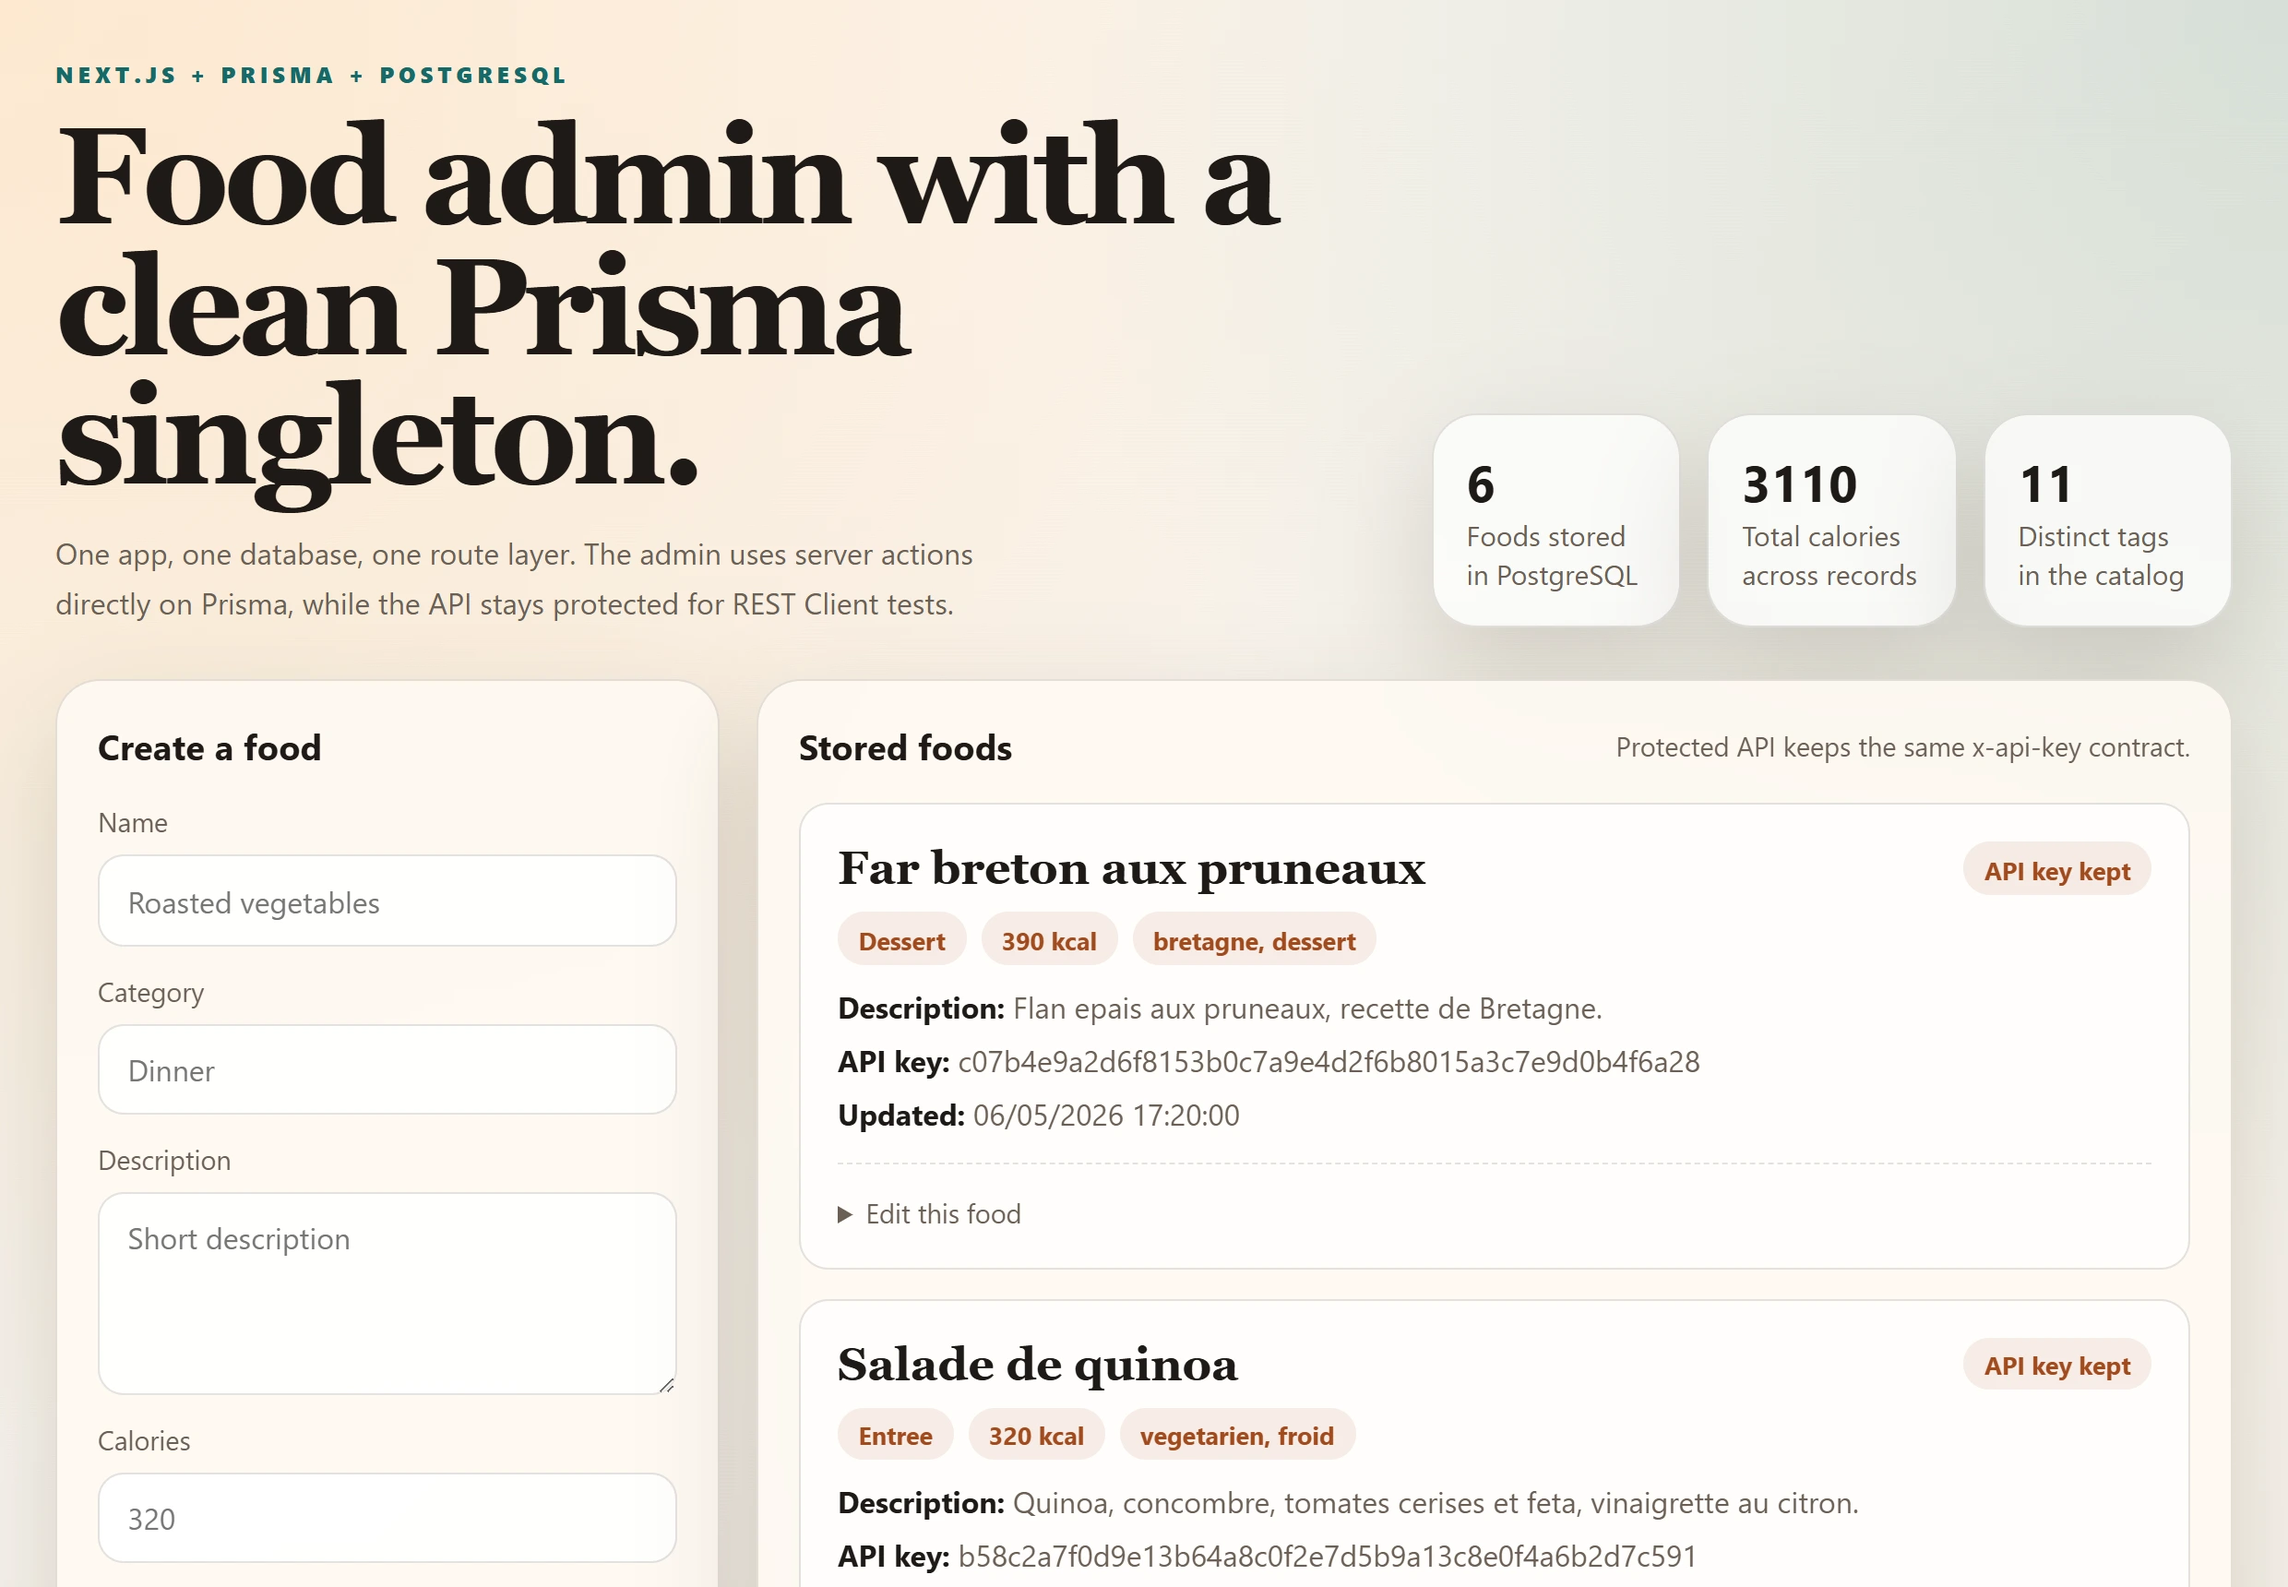
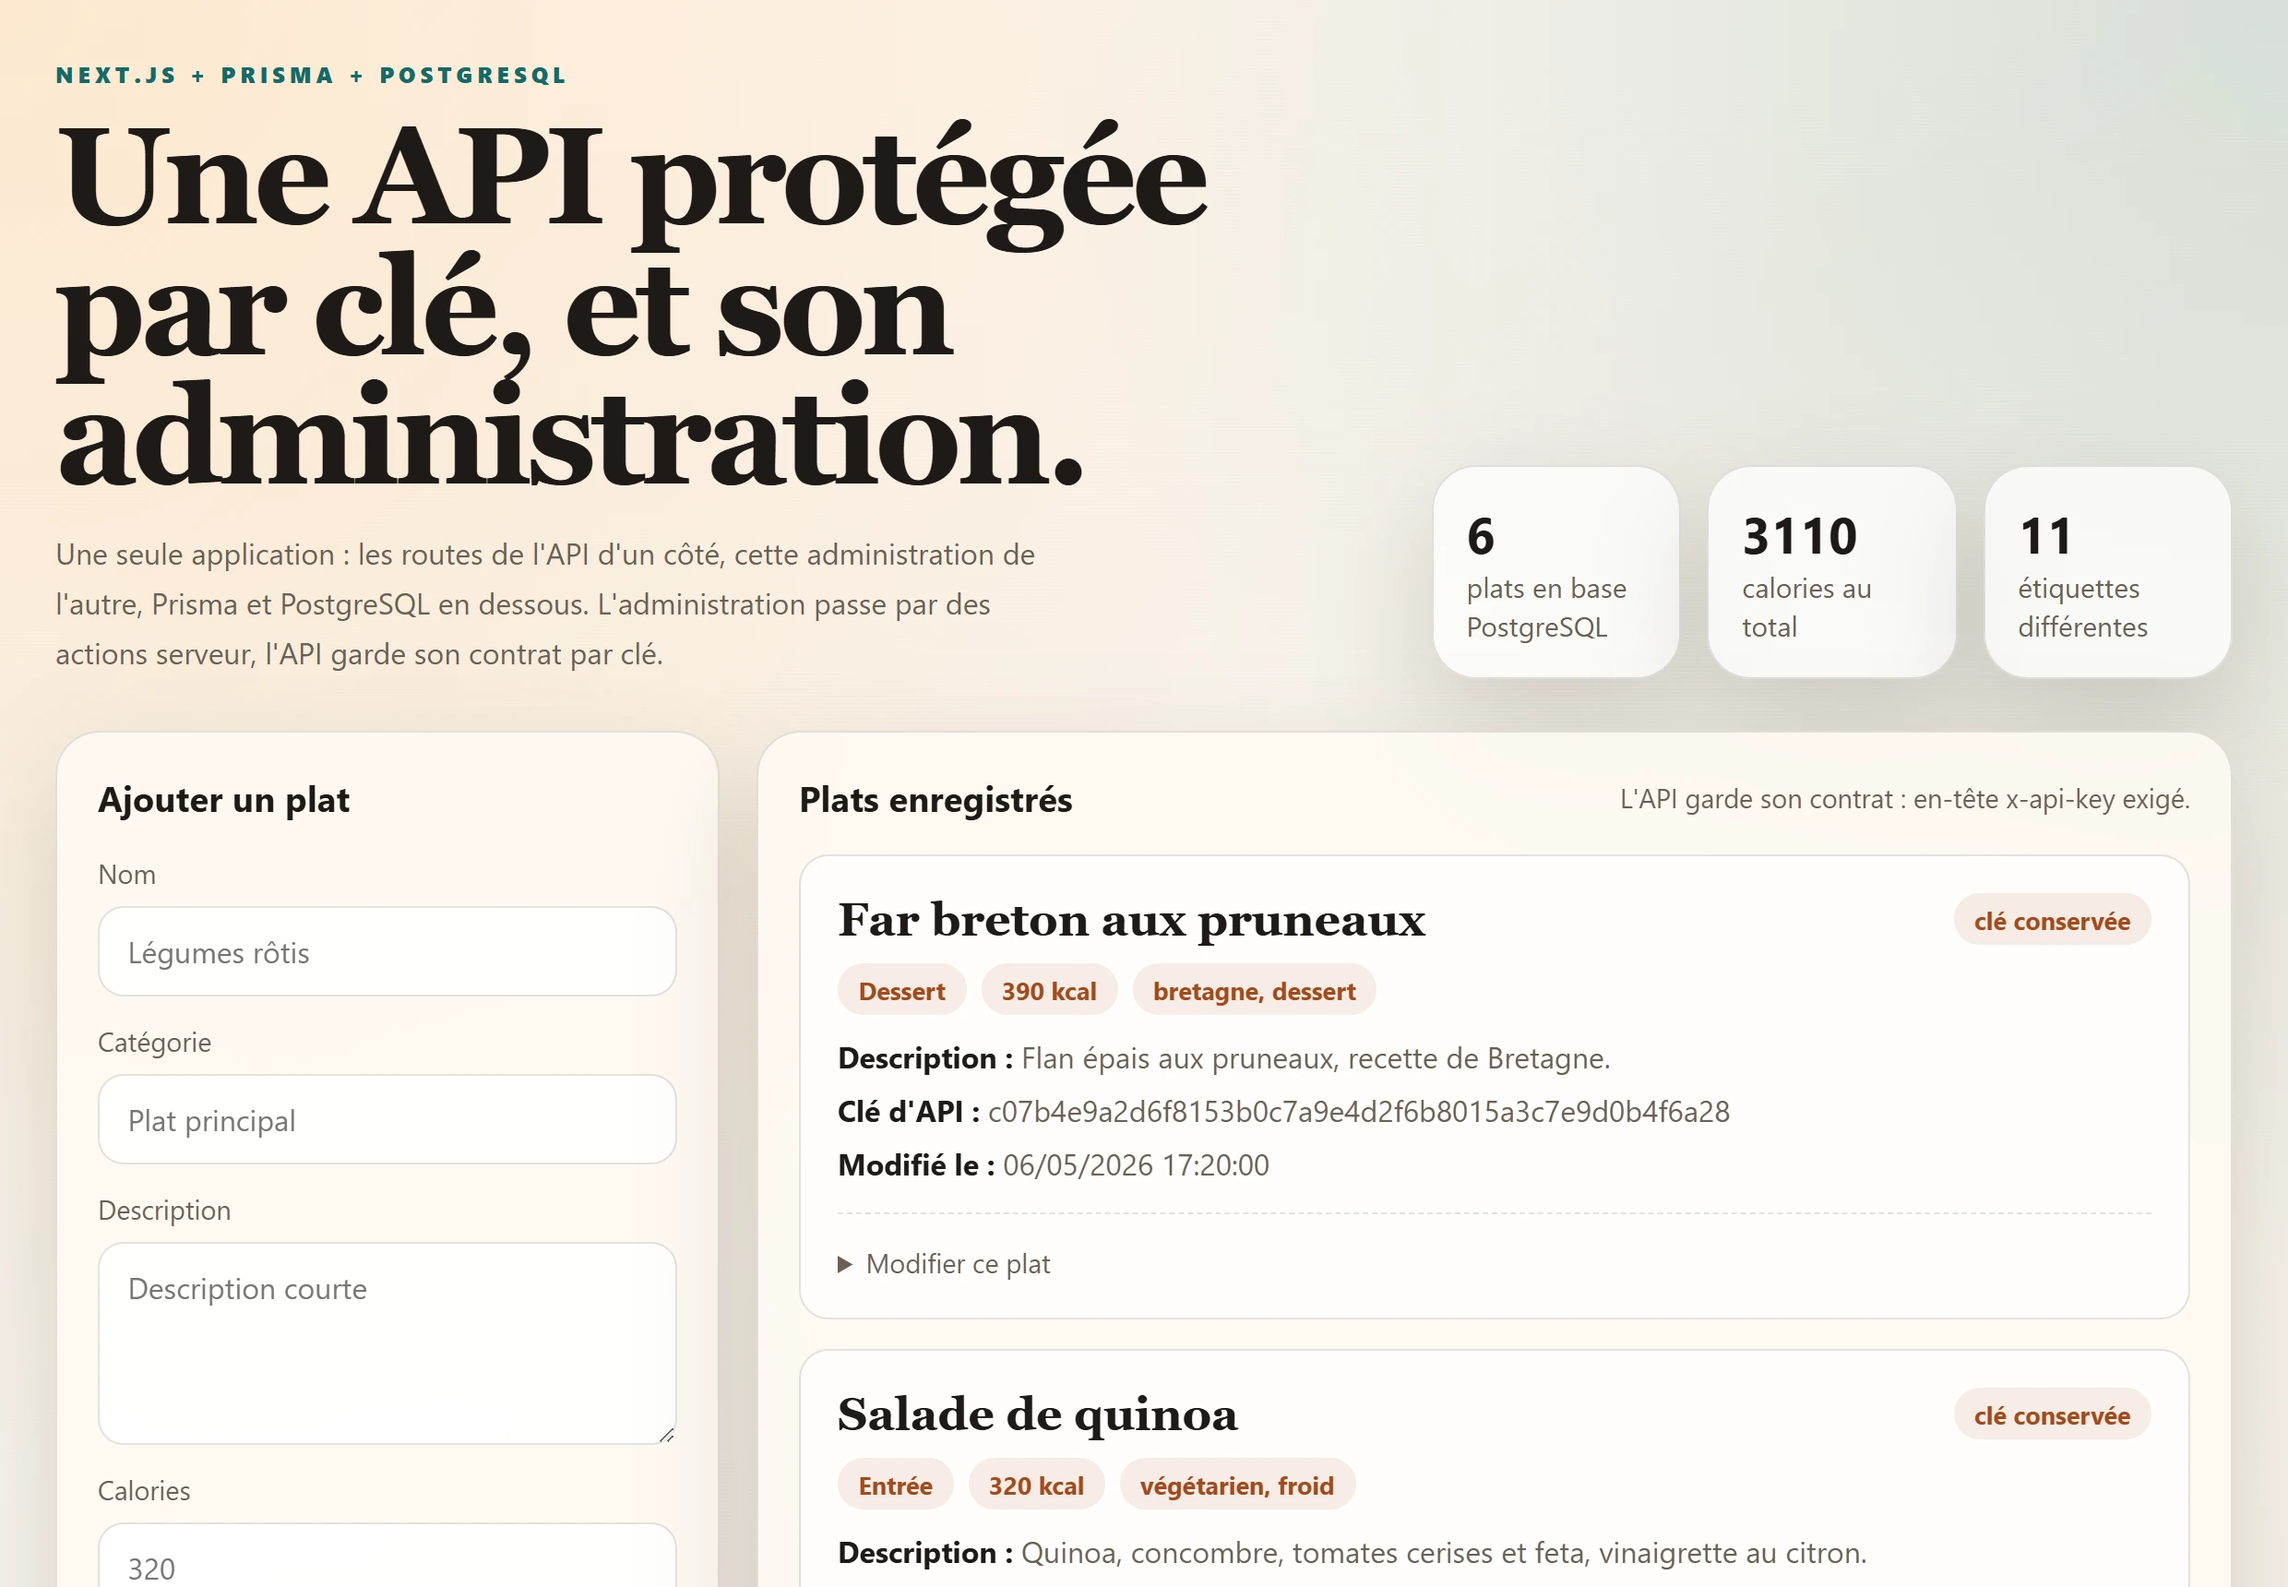
Le CV en ligne ne porte plus le numéro de téléphone
Un CV posé sur Internet est aspiré par les robots. La version publiée
garde les adresses, LinkedIn, GitHub et le QR code ; celle qui part à un
recruteur garde le numéro. Le générateur produit les deux.

Les fiches suivent les projets étudiés : l'application de la chaîne sait
maintenant cocher, filtrer et supprimer, et l'administration de l'API
est en français.

diff --git a/src/projets/chaine-cicd-conteneurs/fiche.ts b/src/projets/chaine-cicd-conteneurs/fiche.ts
@@ -8,9 +8,9 @@ const fiche: Projet = {
   slug: "chaine-cicd-conteneurs",
   ordre: 30,
   titre: "Chaîne CI/CD multi-conteneurs",
-  accroche: "Quatre étages qui vérifient vraiment : tests du front, tests .NET contre MySQL, pile montée en conteneurs, charge k6 et parcours Chrome.",
+  accroche: "Quatre étages qui vérifient vraiment : 22 tests, pile montée en conteneurs, charge k6 avec seuils et parcours d'un visiteur rejoué dans Chrome.",
   resume:
-    "Une chaîne GitHub Actions en quatre étages, et l'application qu'elle vérifie : un front statique servi par nginx, une API .NET 10 et une base MySQL. L'application reste volontairement petite, car le sujet du projet est la chaîne. Chaque étage ne part que si le précédent est vert, l'intégration monte la pile entière par docker compose, et les images ne sont publiées que depuis main, étiquetées par le hash du commit.",
+    "Une chaîne GitHub Actions en quatre étages, et l'application qu'elle vérifie : un suivi de tâches complet, front statique servi par nginx, API .NET 10 et base MySQL. On y crée, coche, filtre et supprime, et les compteurs sont calculés par la base. Chaque étage de la chaîne ne part que si le précédent est vert, l'intégration monte la pile entière par docker compose, et les images ne sont publiées que depuis main, étiquetées par le hash du commit. La pile se lance en une commande sur n'importe quel poste : node demarrer.mjs.",
   categorie: "devops",
   statut: "termine",
   annee: "2026",
@@ -28,12 +28,12 @@ const fiche: Projet = {
   stack: ["githubactions", "docker", "dotnet", "mysql", "nginx", "k6", "puppeteer", "node"],
   chiffres: [
     { valeur: 4, libelle: "étages, chacun conditionné au précédent" },
-    { valeur: 3, libelle: "conteneurs montés à chaque intégration" },
+    { valeur: 22, libelle: "tests : 16 contre une vraie base, 6 sur les règles du front" },
     { valeur: 10, libelle: "utilisateurs simultanés sous k6" },
-    { valeur: 2, libelle: "images publiées par commit" },
+    { valeur: 1, libelle: "commande pour monter la pile entière" },
   ],
   probleme:
-    "Une chaîne d'intégration peut passer au vert sans rien vérifier : un test qui affiche « rien à lancer » a la même couleur qu'un test qui protège. C'était le cas ici, et c'est le piège que ce projet corrige.",
+    "Une chaîne d'intégration peut passer au vert sans rien vérifier : un test qui affiche « rien à lancer » a la même couleur qu'un test qui protège. Le squelette de départ était dans ce cas, et tout le travail a consisté à donner à chaque étage quelque chose de réel à vérifier.",
   solution:
     "Donner à chaque étage un travail réel : des règles testées côté front, des tests d'API contre une vraie base MySQL, la pile entière montée en conteneurs puis mise sous charge avec des seuils, et le parcours d'un visiteur rejoué dans un vrai Chrome.",
   sections: [
@@ -48,11 +48,23 @@ const fiche: Projet = {
       ],
     },
     {
+      titre: "L'application, assez complète pour être vérifiable",
+      texte: "Une liste où tout reste à faire ne prouve rien : il faut des écritures, des lectures filtrées et des suppressions.",
+      points: [
+        "Créer, cocher, décocher, supprimer une tâche",
+        "Filtrer entre « toutes », « à faire » et « faites », depuis l'adresse de l'API",
+        "Compteurs calculés par la base, pas par la page : trois nombres ne demandent pas de tout télécharger",
+        "PATCH ne change que ce qui est envoyé : cocher une tâche n'oblige pas à renvoyer son titre",
+        "Un filtre inconnu montre tout, plutôt que de répondre par une erreur",
+      ],
+    },
+    {
       titre: "Ce que la chaîne refuse de laisser passer",
       texte: "Les seuils font échouer la chaîne d'eux-mêmes : sans seuil, un test de charge affiche des chiffres que personne ne lit.",
       points: [
         "Moins de 1 % de requêtes en échec, et 95 % des réponses sous 500 ms",
         "Un titre vide refusé par le serveur, formulaire contourné : le test l'appelle directement en HTTP",
+        "Le parcours complet d'un visiteur dans Chrome : créer, cocher, voir la tâche quitter le filtre « À faire », la supprimer",
         "Une sonde de santé qui interroge vraiment la base, par un SELECT 1",
         "Jamais d'étiquette latest : le hash du commit nomme exactement l'image qui tourne",
       ],
@@ -69,7 +81,7 @@ const fiche: Projet = {
   lecons: [
     {
       titre: "Un test vide est pire qu'aucun test",
-      texte: "Il donne la couleur verte de la confiance sans le travail de la vérification. Les quatre étages passaient au vert sur des scripts qui affichaient « placeholder: nothing to run ».",
+      texte: "Il donne la couleur verte de la confiance sans le travail de la vérification. Les scripts du squelette de départ affichaient « placeholder: nothing to run » : la chaîne était verte, et ne protégeait rien.",
     },
     {
       titre: "Un seuil transforme une mesure en garde-fou",
@@ -78,6 +90,10 @@ const fiche: Projet = {
     {
       titre: "Attendre une base, ce n'est pas attendre son port",
       texte: "MySQL répond sur son socket local bien avant d'accepter le réseau. La sonde interroge donc 127.0.0.1, sans quoi la migration part trop tôt.",
+    },
+    {
+      titre: "Une règle de style trop large déforme un composant",
+      texte: "La règle des champs de saisie s'appliquait aussi aux cases à cocher, étirées sur 220 pixels. Le parcours navigateur l'a rendue visible avant un visiteur.",
     },
   ],
   pipeline: [
@@ -93,7 +109,7 @@ const fiche: Projet = {
     {
       genre: "verification",
       titre: "Intégration",
-      taches: [{ nom: "Pile complète", controles: ["docker compose up --wait", "Schéma appliqué", "k6 : 10 utilisateurs, seuils", "Chrome : parcours complet"] }],
+      taches: [{ nom: "Pile complète", controles: ["docker compose up --wait", "Schéma appliqué", "k6 : création, coche, filtre, compteurs, suppression", "Chrome : le parcours entier d'un visiteur"] }],
     },
     { genre: "publication", titre: "Images", taches: [{ nom: "Matrice", controles: ["frontend + backend", "GHCR, depuis main", "Étiquette = hash du commit"] }] },
   ],
@@ -153,6 +169,7 @@ if (refus !== 400) throw new Error(\`Le serveur a répondu \${refus} au lieu de 
           ghcr.io/\${{ github.repository_owner }}/spm-\${{ matrix.composant }}:main`,
     },
   ],
+  demos: [],
   preuves: [
     {
       libelle: "Les exécutions de la chaîne",

diff --git a/src/projets/api-rest-prisma/fiche.ts b/src/projets/api-rest-prisma/fiche.ts
@@ -21,7 +21,7 @@ const fiche: Projet = {
     {
       src: administration,
       alt: "Interface d'administration de l'API",
-      legende: "L'administration : actions serveur sur Prisma, et l'API qui garde son contrat par clé",
+      legende: "L'administration, en français : actions serveur sur Prisma, et l'API qui garde son contrat par clé",
       format: "ecran",
     },
   ],
